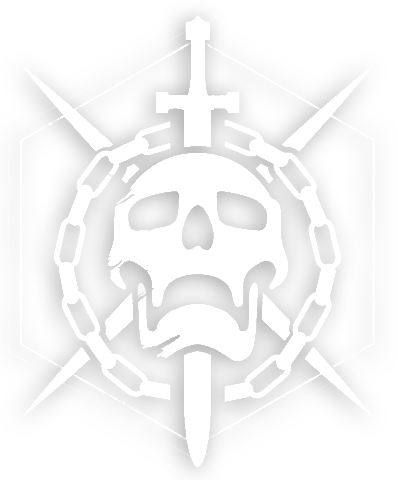
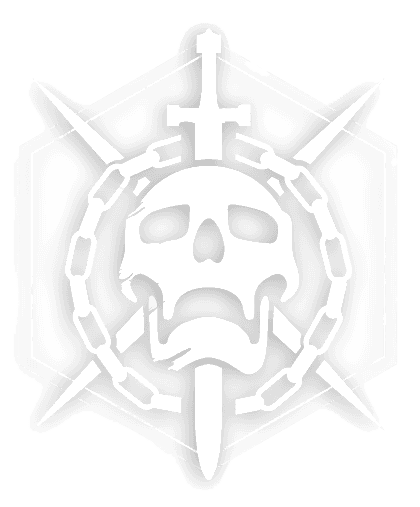
Add subtle bouncing animation to raid emblem

diff --git a/src/app/HomePage.tsx b/src/app/HomePage.tsx
@@ -52,6 +52,15 @@ export default function HomePage({ calloutSets }: { calloutSets: CalloutSet[] })
                         <motion.div
                             initial={{ x: 100, opacity: 0 }}
                             whileInView={{ x: 0, opacity: 1 }}
+                            animate={{
+                                y: [null, -20],
+                                transition: {
+                                    repeat: Infinity,
+                                    repeatType: 'mirror',
+                                    duration: 5,
+                                    ease: 'easeInOut',
+                                }
+                            }}
                             className={styles.bannerImageContainer}
                         >
                             <Image className={styles.bannerImage} src={RaidEmblem} alt='Raid Emblem' />
